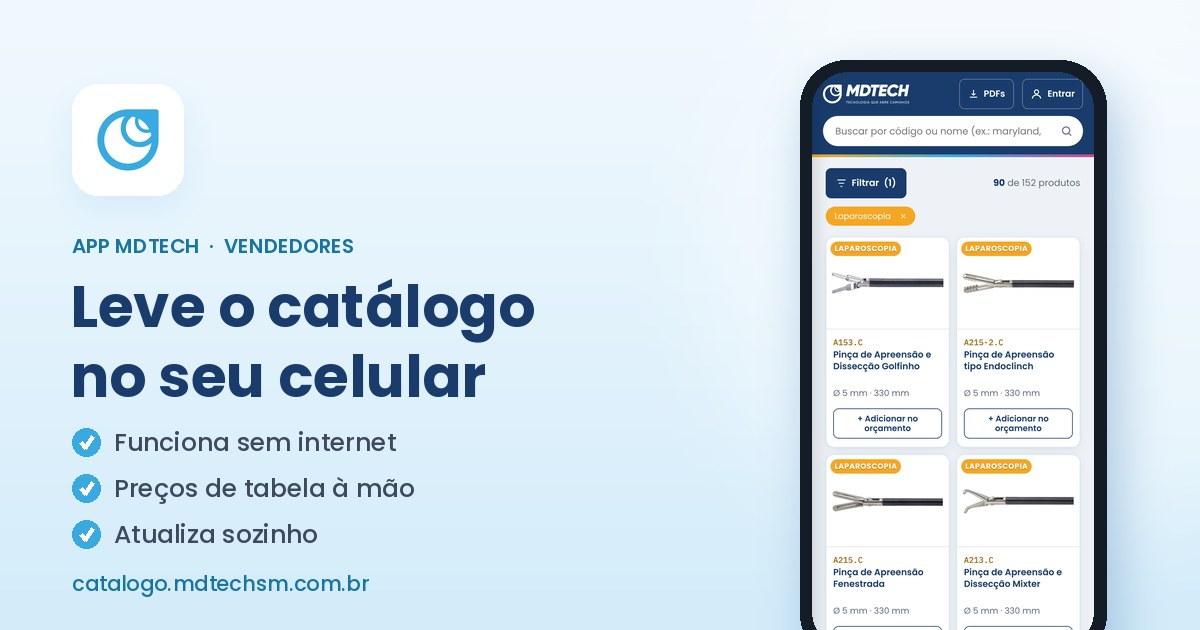
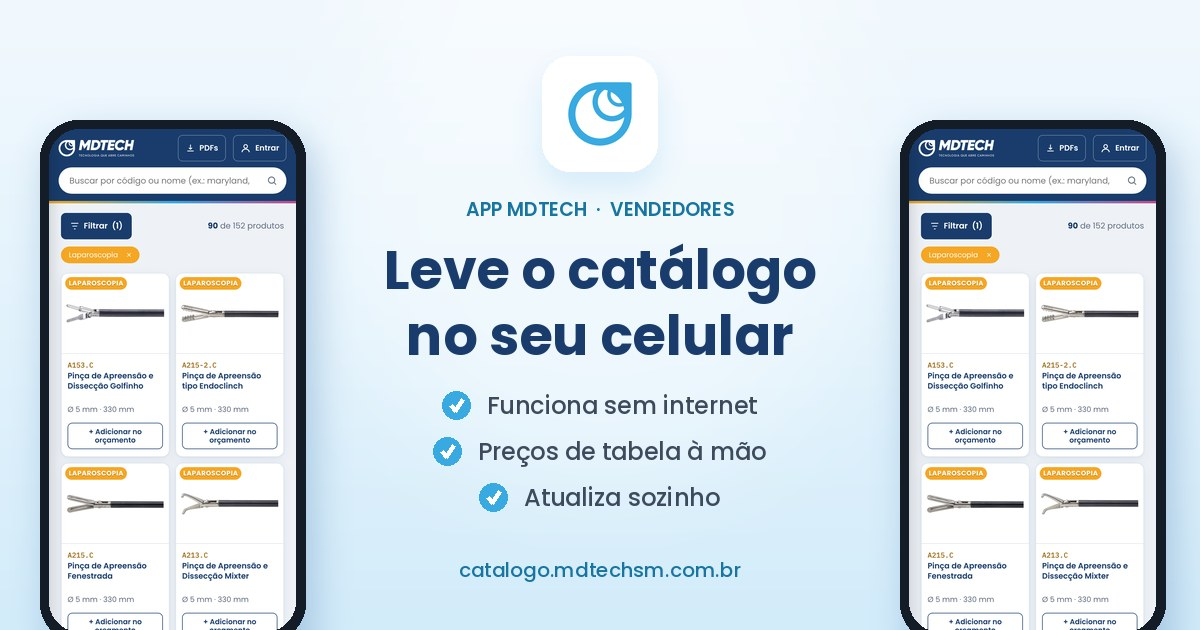
Prévia do convite: imagem com o conteúdo no centro (funciona no cartão largo e na miniatura quadrada do WhatsApp)
Claude-Session: https://claude.ai/code/session_011YAndgCTUbo37zQjcq941f

diff --git a/site/entrar.html b/site/entrar.html
@@ -15,8 +15,8 @@
   <meta property="og:locale" content="pt_BR">
   <meta property="og:title" content="App MDTech para vendedores: leve o catálogo no seu celular">
   <meta property="og:description" content="Crie sua senha e instale o app: catálogo, fotos e preços de tabela, também sem internet.">
-  <meta property="og:url" content="https://catalogo.mdtechsm.com.br/entrar.html">
-  <meta property="og:image" content="https://catalogo.mdtechsm.com.br/img/app/compartilhar-app.jpg">
+  <meta property="og:url" content="https://catalogo.mdtechsm.com.br/entrar.html?app=2">
+  <meta property="og:image" content="https://catalogo.mdtechsm.com.br/img/app/compartilhar-app.jpg?v=2">
   <meta property="og:image:width" content="1200">
   <meta property="og:image:height" content="630">
   <meta name="twitter:card" content="summary_large_image">

diff --git a/site/js/vendedores.js b/site/js/vendedores.js
@@ -24,7 +24,7 @@
       `Depois de entrar, instale o app no celular: o catálogo funciona até sem internet.`;
   }
   function mostrarConvite(v, codigo, tipo, dias) {
-    const link = linkEntrar() + "#convite=" + codigo;
+    const link = linkEntrar() + "?app=2#convite=" + codigo;   // ?app=2: o WhatsApp não reaproveita a prévia antiga guardada para o endereço sem parâmetro
     ultimaMensagem = mensagem(v, link, tipo, dias);
     $("senha-titulo").textContent = tipo === "nova senha" ? "Link de nova senha pronto" : "Convite pronto";
     $("senha-para").innerHTML = `Para <b>${esc(v.nome ? v.nome + " · " + v.email : v.email)}</b>`;

diff --git a/CLAUDE.md b/CLAUDE.md
@@ -183,7 +183,7 @@ sangria; capa, sangria, marcas de corte e CMYK são feitos no InDesign. Quando o
   **Visual (17/11, pedido do André):** ícone do app com **fundo branco e o símbolo no azul claro da logo (`#38AAE1`)**; convite para instalar em
   **tela cheia**, fundo azul claro, ícone, título "Leve o catálogo no seu celular", 3 benefícios e, no iPhone, o passo a passo antes dos benefícios;
   botões sempre à vista no rodapé. "Agora não", "Entendi", × e Esc adiam por 30 dias. O convite aparece **só em celular e tablet**; no computador fica só o botão de instalar do próprio navegador (decidido em 17/11). Aviso de conexão = faixa fina **dentro do topo** (não cobre nada): "Sem internet · catálogo de dd/mm" em azul bem claro;
-  "Conectado · catálogo atualizado" em `#1874A1`. Prévia do convite no WhatsApp: `site/img/app/compartilhar-app.jpg` (1200×630, Open Graph do `entrar.html`).
+  "Conectado · catálogo atualizado" em `#1874A1`. Prévia do convite no WhatsApp: `site/img/app/compartilhar-app.jpg` (1200×630, Open Graph do `entrar.html`) — **conteúdo no quadrado central e celulares nas laterais**, porque o WhatsApp mostra ora o cartão largo, ora uma miniatura quadrada cortada no centro. O link do convite leva `?app=2` para driblar a prévia antiga que o WhatsApp guarda por endereço (se trocar a imagem de novo, subir o número em `entrar.html` e em `vendedores.js`).
   **Android sem o aviso de instalação do navegador** (ex.: **Samsung Internet**, navegador padrão dos Samsung): depois de 8 s o convite mostra o passo a passo
   pelo menu (Samsung: ☰ → Adicionar página a → Tela inicial; outros: ⋮ → Instalar app). Com o aviso (Chrome), aparece o botão "Instalar o app".
 - **Fase 2 (depende do administrador): intranet básica** no mesmo app e login: comunicados, aniversariantes e repositório de arquivos e documentos (hoje tudo no grupo de WhatsApp).
